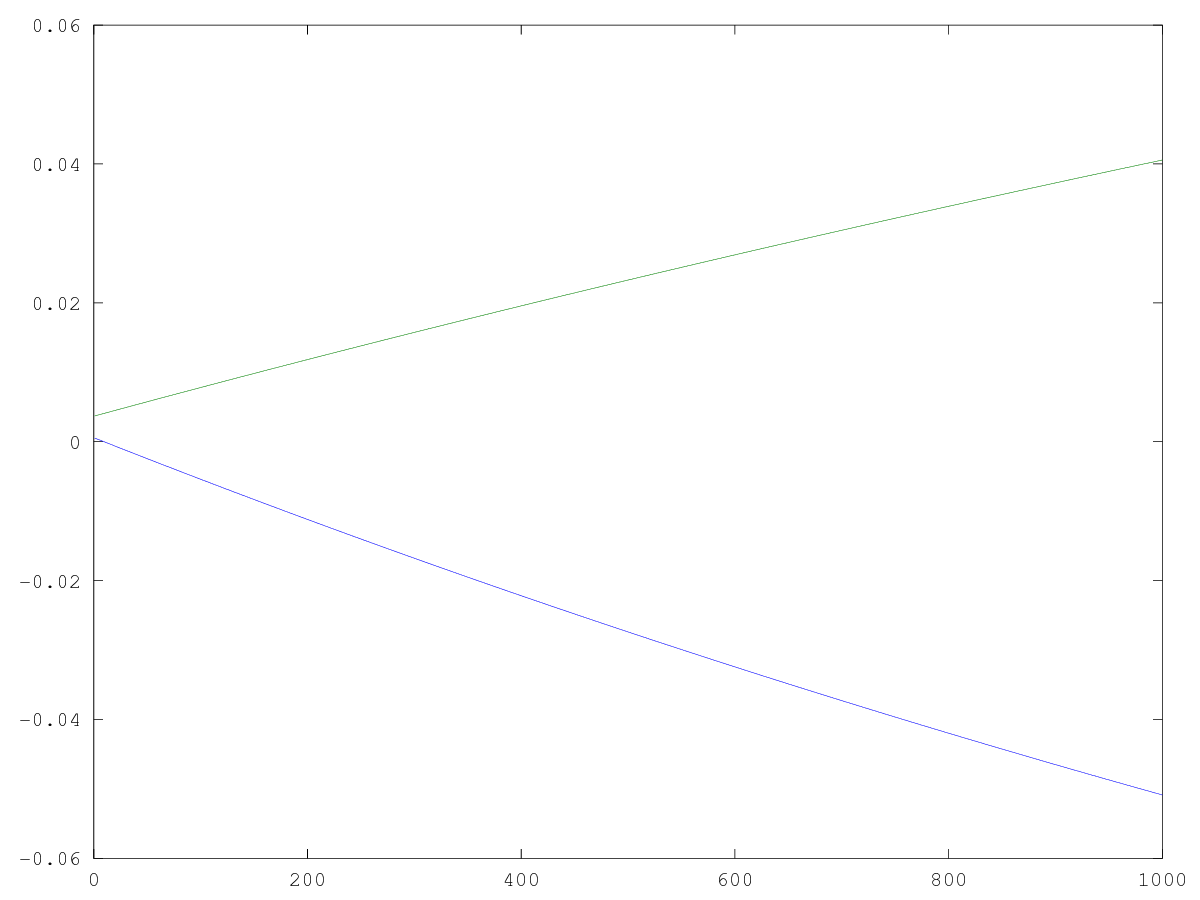
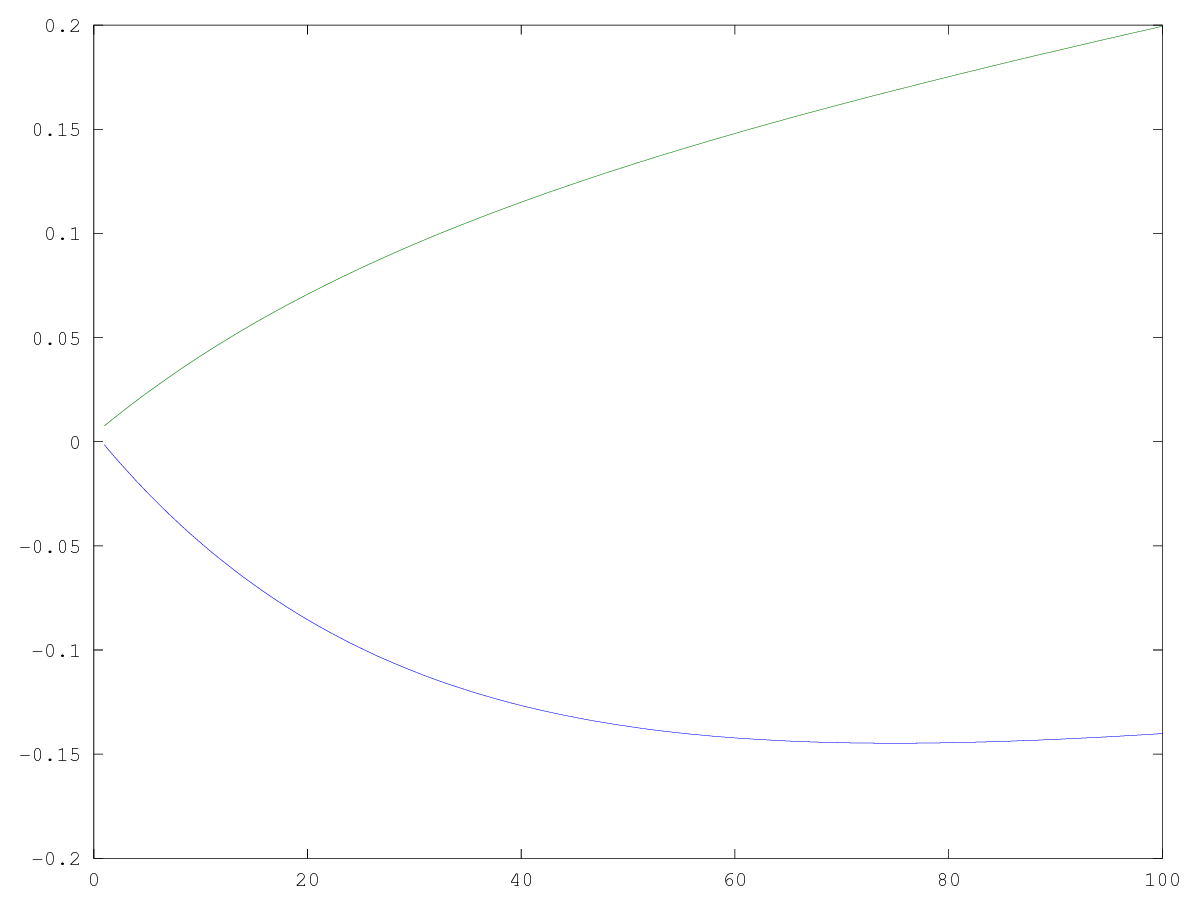
redid synthetic experiment

diff --git a/octave-src/sample/synthetic/top_male_bottom_female/GAMMA=150/model.m b/octave-src/sample/synthetic/top_male_bottom_female/GAMMA=150/model.m
@@ -1,9 +1,9 @@
-# Created by Octave 4.0.0, Wed Aug 08 14:40:34 2018 UTC <ubuntu@lsat>
+# Created by Octave 4.0.0, Wed Aug 08 15:19:17 2018 UTC <ubuntu@lsat>
 # name: omega
 # type: matrix
 # rows: 2
 # columns: 1
- -0.05087214898598411
- 0.0405680968327092
+ -0.1401166929312035
+ 0.19943282819851
 
 

diff --git a/octave-src/sample/ChileUni/NoSemi/highschool/fold_3/GAMMA=SMALL/model.m b/octave-src/sample/ChileUni/NoSemi/highschool/fold_3/GAMMA=SMALL/model.m
@@ -1,0 +1,12 @@
+# Created by Octave 4.0.0, Wed Aug 08 15:22:38 2018 UTC <ubuntu@lsat>
+# name: omega
+# type: matrix
+# rows: 5
+# columns: 1
+ 0.1349349596854267
+ 0.1953016159519016
+ 0.003796822037491286
+ 0.2179580943373537
+ 0.1839602924343956
+
+

diff --git a/octave-src/src/globals.m b/octave-src/src/globals.m
@@ -1,10 +1,10 @@
 % global variables declaration
 
 % number of training iterations
-global T = 1000;
+global T = 100;
 
 % learning rate
-global e = 0.00001;
+global e = 0.001;
 
 % regularization constant
 global LAMBDA = 0.001;

diff --git a/octave-src/sample/ChileUni/NoSemi/highschool/fold_3/GAMMA=LARGE/model.m b/octave-src/sample/ChileUni/NoSemi/highschool/fold_3/GAMMA=LARGE/model.m
@@ -1,0 +1,12 @@
+# Created by Octave 4.0.0, Wed Aug 08 15:28:25 2018 UTC <ubuntu@lsat>
+# name: omega
+# type: matrix
+# rows: 5
+# columns: 1
+ NaN
+ NaN
+ NaN
+ NaN
+ NaN
+
+
